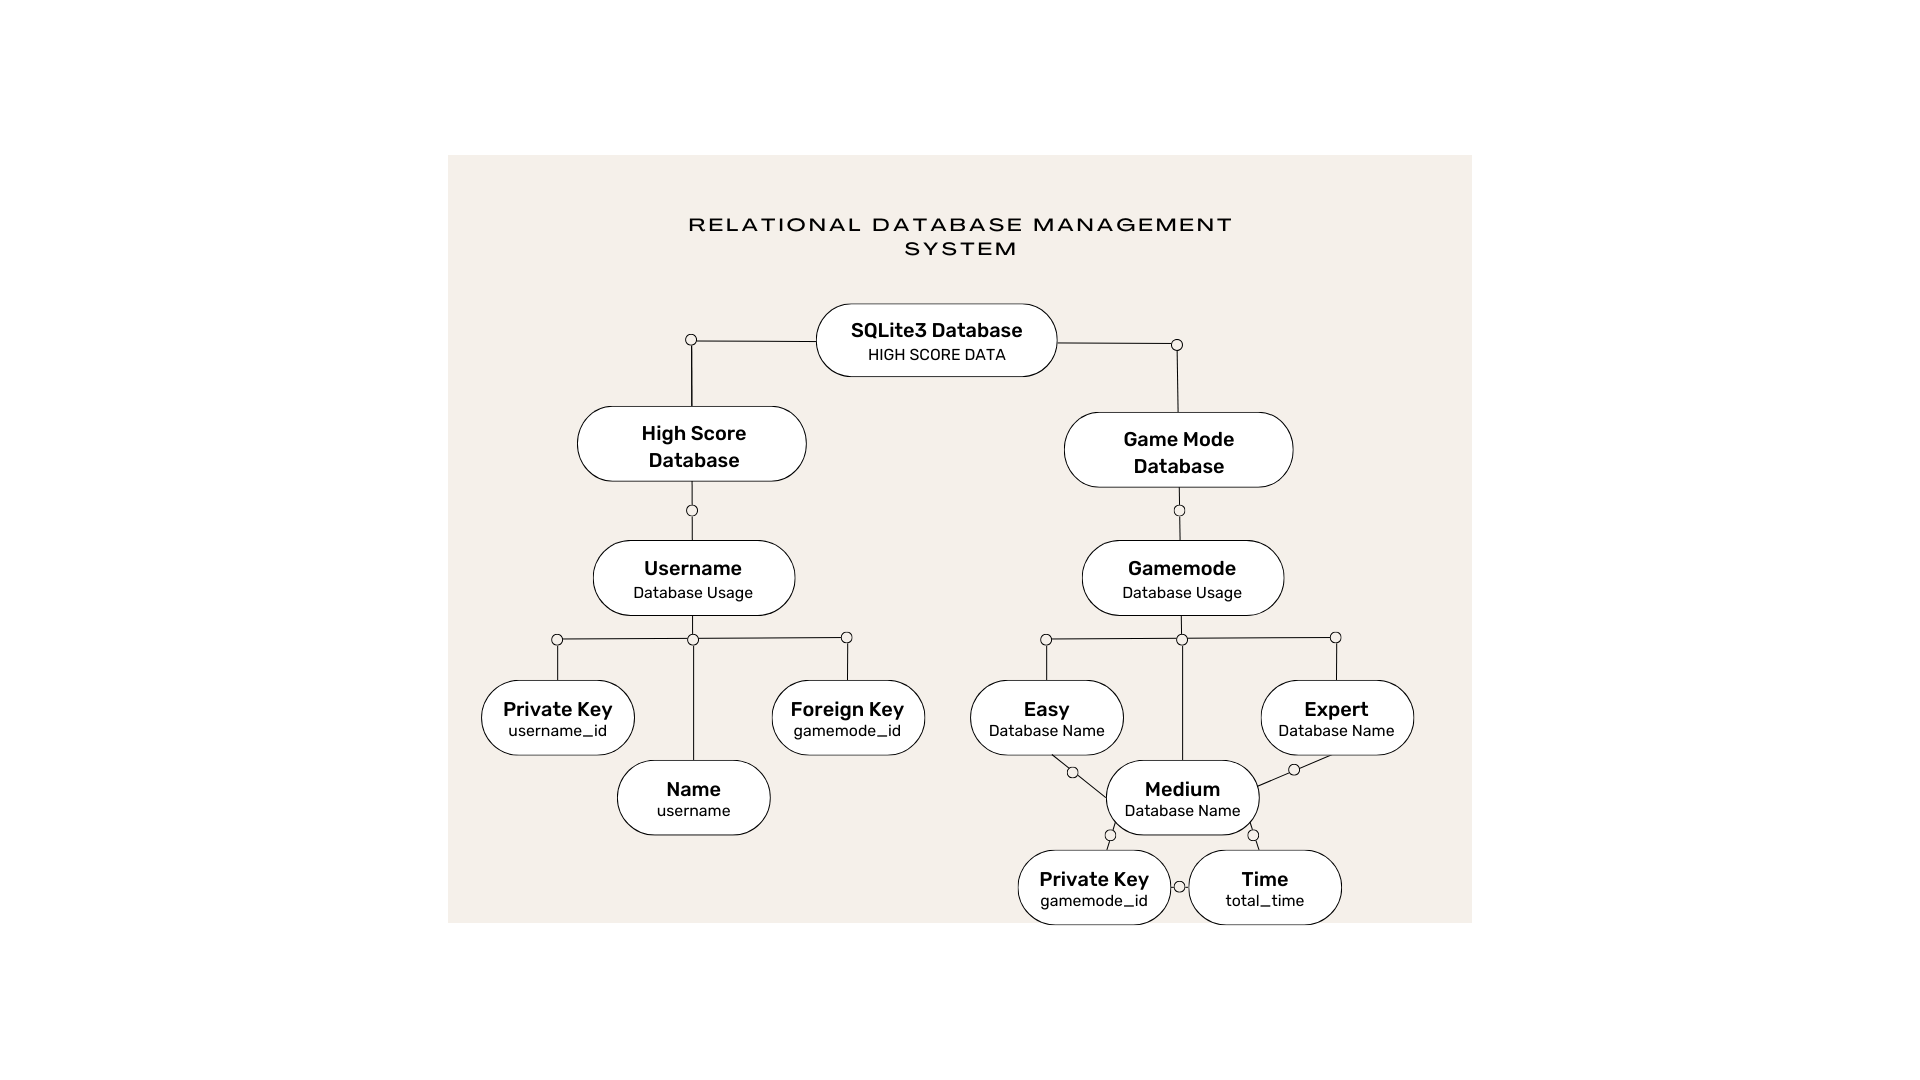
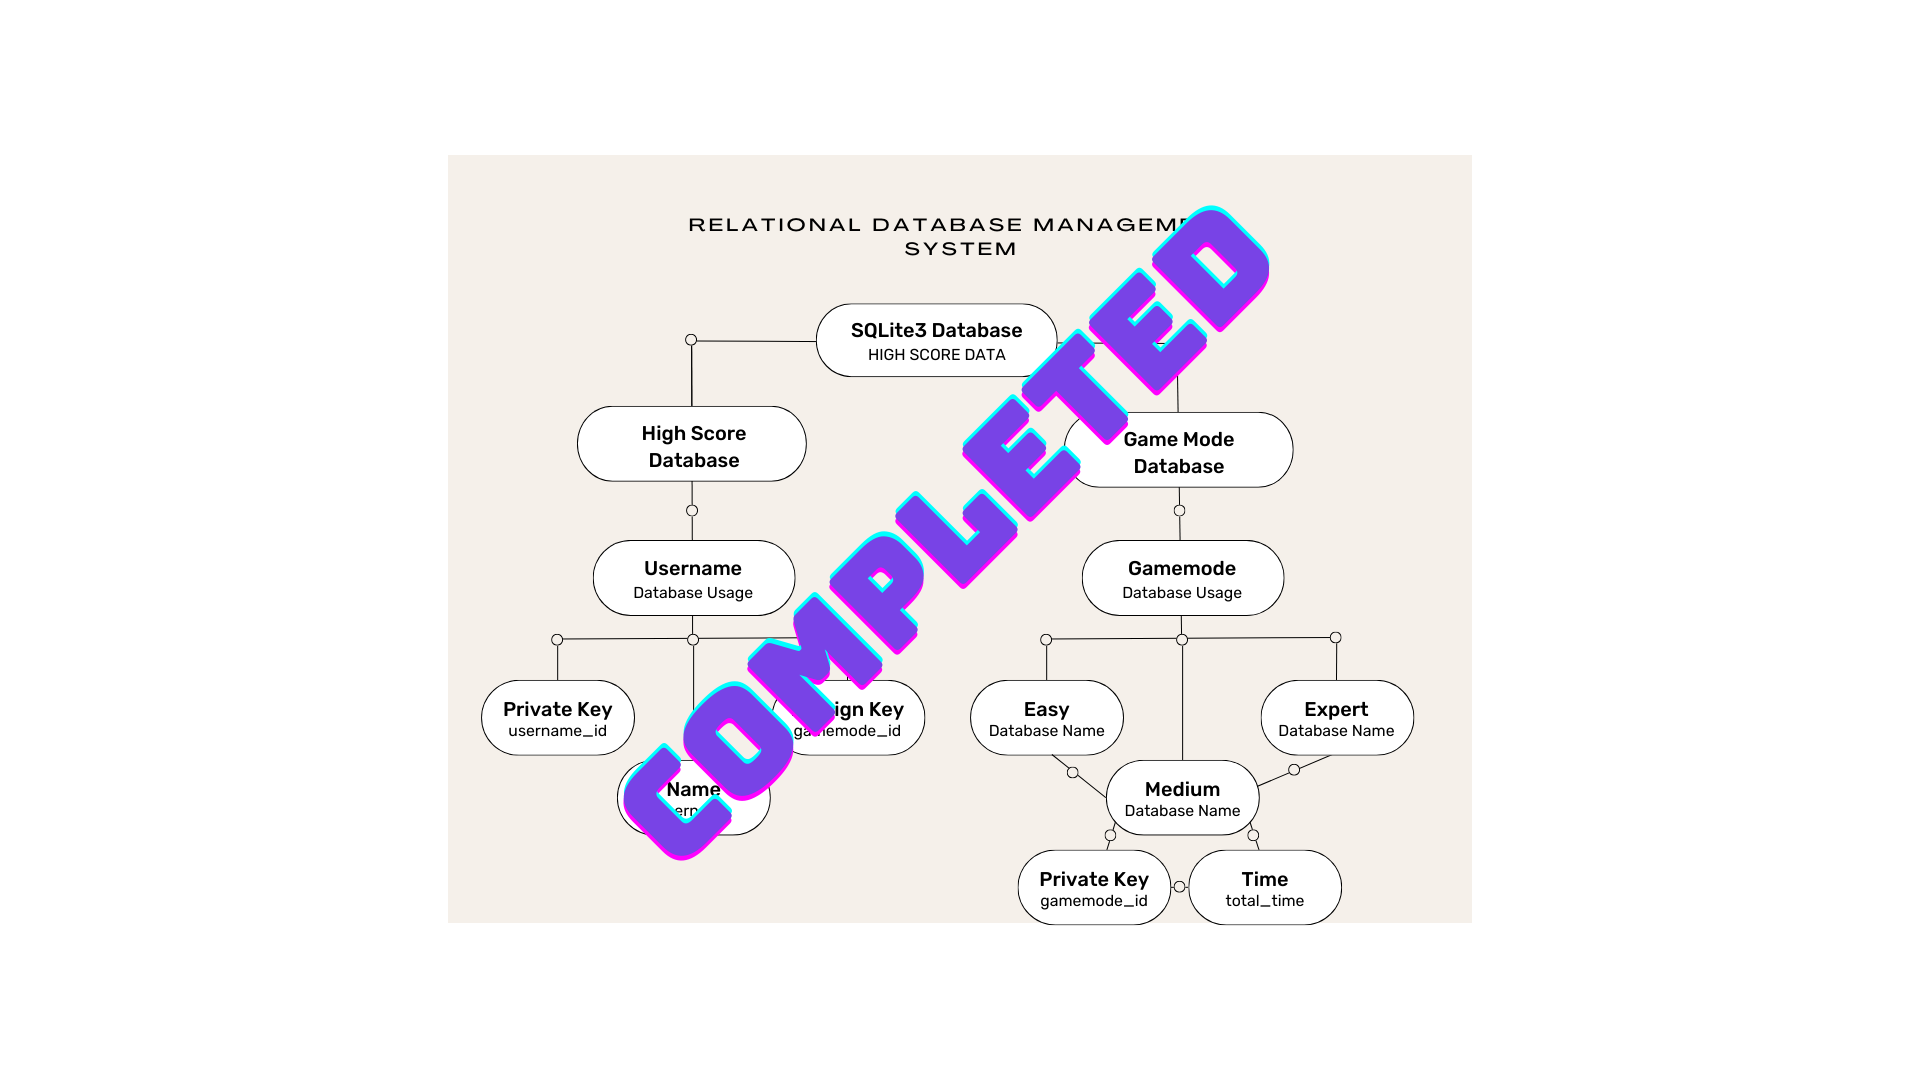
Finished database construction

Changed region(s): [[0.3125, 0.1833, 0.6875, 0.7944]]

diff --git a/data/migrations/20230904182247_initial-migration.js b/data/migrations/20230904182247_initial-migration.js
@@ -1,13 +1,39 @@
 exports.up = async function(knex) {
   await knex.schema
+    .createTable('difficulty', tbl => {
+        tbl.incrememnts('difficulty_id', tbl => {
+            tbl.string('difficulty', 6).notNullable()
+        })
+    })
     .createTable('username', tbl => {
         tbl.increments('username_id')
         tbl.string('username', 15).notNullable()
-        tbl.string('ip_address', 32).notNullable()
-        tbl.integer([FOREIGN KEY HERE])
+        tbl.string('ip_address', 128).notNullable()
+        tbl.integer('gamemode_id')
+            .unsigned()
+            .notNullable()
+            .references('gamemode_id')
+            .inTable('gamemode')
+            .onDelete('CASCADE')
+            .onUpdate('CASCADE')
+    })
+    .createTable('gamemode', tbl => {
+        tbl.incrememnts('gamemode_id')
+        tbl.real('time').notNullable()
+        tbl.integer('difficulty_id')
+            .unsigned()
+            .notNullable()
+            .references('difficulty_id')
+            .inTable('difficulty')
+            .onDelete('CASCADE')
+            .onUpdate('CASCADE')
     })
 };
 
-exports.down = function(knex) {
-  
+exports.down = async function(knex) {
+  await knex.schema
+    .dropTableIfExists('gamemode')
+    .dropTableIfExists('username')
+    .dropTableIfExists('difficulty')
+
 };

diff --git a/data/seeds/01-cleanup.js b/data/seeds/01-cleanup.js
@@ -1,0 +1,11 @@
+const { clean } = require('knex-cleaner')
+
+exports.seed = function (knex) {
+    return clean(knex, {
+        mode: 'truncate',
+        ignoreTables: [
+            'knex_migrations',
+            'knex_migrations_lock'
+        ]
+    })
+}
